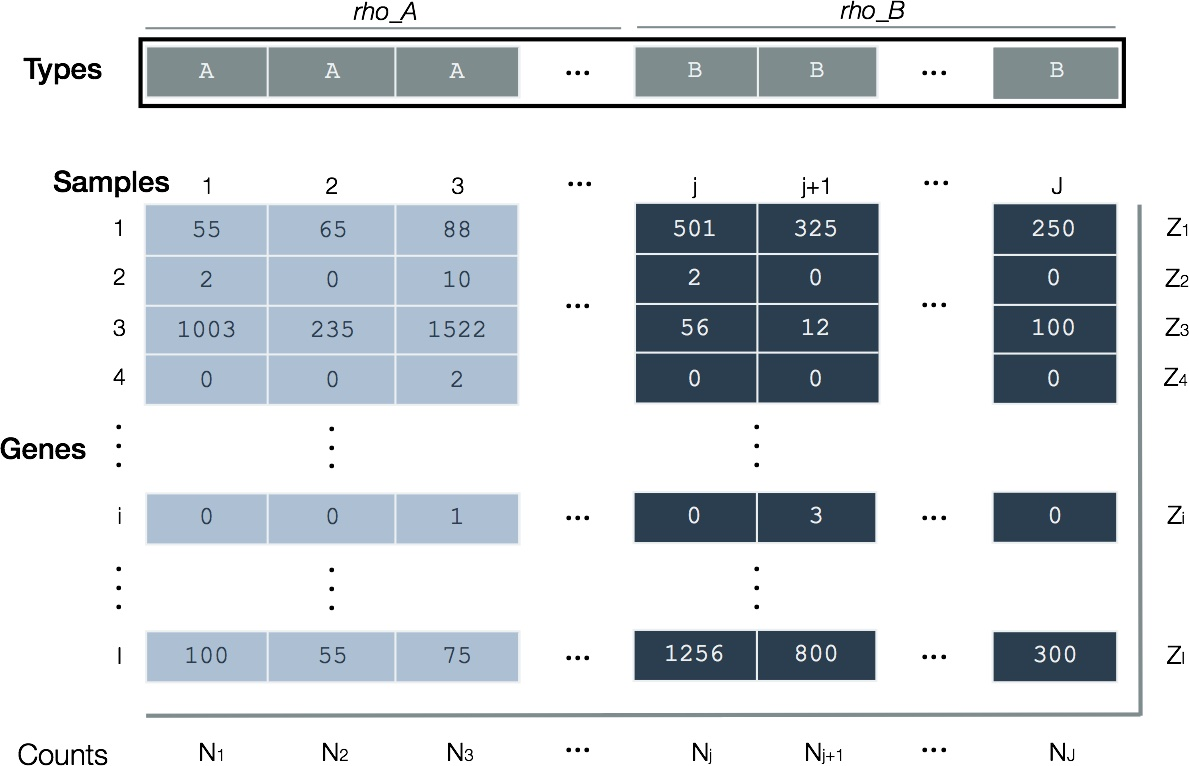
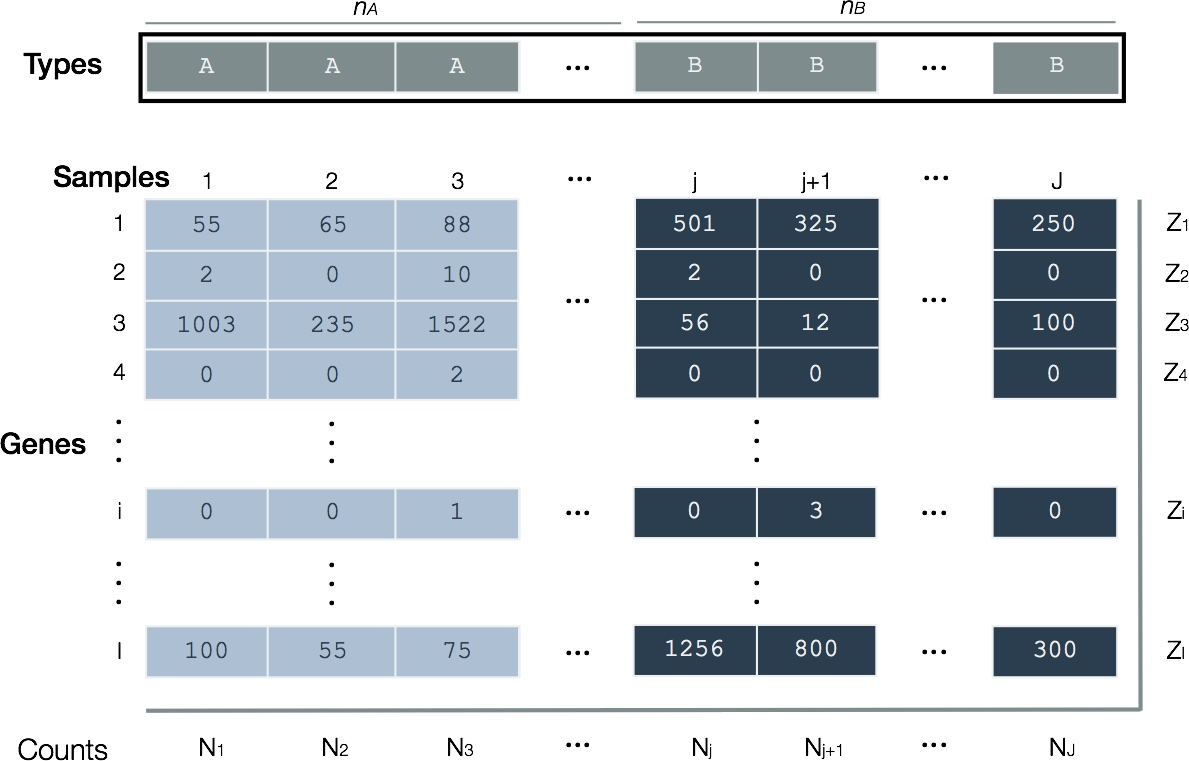
CML for common dispersions

diff --git a/_primers/functional_analysis/rna_sequencing_analysis.md b/_primers/functional_analysis/rna_sequencing_analysis.md
@@ -31,7 +31,8 @@ figures:
   - {:.list-unstyled} [IV. Normalization](#normalization)
   - {:.list-unstyled} [V. Differential expression testing](#differentialExpression)
   - {:.list-unstyled} [VI. Modelling counts ](#modellingCounts)
-  - {:.list-unstyled} [VII. References](#references)
+  - {:.list-unstyled} [VII. Dispersion estimation ](#dispersionEstimation)
+  - {:.list-unstyled} [VIII. References](#references)
 
 <hr/>
 
@@ -133,7 +134,7 @@ The overall goal for RNA-seq normalization is to provide a basis upon which an f
 
 ![image]({{ site.baseurl }}/{{ site.media_root }}{{ page.id }}/{{ page.figures.figure_3 }}){: .img-responsive }
 <div class="figure-legend well well-lg text-justify">
-  <strong>Figure 3. Layout of RNA-seq read counts for differential expression.</strong> Hypothetical counts of RNA species for two biological types (A and B) whose gene expression are being contrasted. Samples (J total) are arranged in columns and genes (I total) in rows. There are rho_A samples of Type A and rho_B of Type B. A cDNA library for each sample is created and sequenced. The total number of mapped sequence reads from each sample (N) are usually non-identical; Total mapped sequence reads for each gene is also indicated along right margin (Z).
+  <strong>Figure 3. Layout of RNA-seq read counts for differential expression.</strong> Hypothetical counts of RNA species for two biological types (A and B) whose gene expression are being contrasted. Samples (J total) are arranged in columns and genes (I total) in rows. There are n_A samples of Type A and n_B of Type B. A cDNA library for each sample is created and sequenced. The total number of mapped sequence reads from each sample (N) are usually non-identical; Total mapped sequence reads for each gene is also indicated along right margin (Z).
 </div>
 
 ### Notation
@@ -144,7 +145,7 @@ To make our discussion more precise we will use mathematical notation in the fol
   - {:.list-unstyled} $$Z_{i}$$ = $$\sum\limits_{j \in J}Y_{ij}$$ total mapped sequence reads for a gene
   - {:.list-unstyled} $$Z_{iT}$$ = $$\sum\limits_{j \in T}Y_{ij}$$ total mapped sequence reads for a gene over all sample indices corresponding to a  given type $$T=\{j: j \subseteq 1 \leq k \leq J \}$$
   - {:.list-unstyled} $$\lambda_{ij}$$ relative abundance of mapped sequence reads attributed to a given locus in a sample. Proportion of total mass
-  - {:.list-unstyled} $$\rho_{T} = \|T\|$$ (rho_T) number of samples of given type $$T$$
+  - {:.list-unstyled} $$n_{T} = \|T\|$$ number of samples of type $$T$$
   - {:.list-unstyled} $$\omega_{ij}$$ gene expression level in number of transcripts
   - {:.list-unstyled} $$L_{i}$$ length of an RNA species in bases
   - {:.list-unstyled} $$S_{j}$$ total RNA output in a sample. Total mass in bases
@@ -416,7 +417,7 @@ Our framework for gathering evidence will be a hypothesis test and the evidence 
 
 ### Terminology
 
-Suppose that we wish to test whether the relative abundance ($$\lambda_{ij}$$) of a gene in the set of cases with a HGS-OvCa subtype label 'mesenchymal' is different relative to 'immunoreactive'. Let the set of sample indices $$j$$ belonging to the mesenchymal cases be $$M$$ of which there are $$\rho_M=\|M\|$$ cases. Likewise, the set of $$\rho_R=\|R\|$$ immunoreactive cases is $$R$$.
+Suppose that we wish to test whether the relative abundance ($$\lambda_{ij}$$) of a gene in the set of cases with a HGS-OvCa subtype label 'mesenchymal' is different relative to 'immunoreactive'. Let the set of sample indices $$j$$ belonging to the mesenchymal cases be $$M$$ of which there are $$n_M=\|M\|$$ cases. Likewise, the set of $$n_R=\|R\|$$ immunoreactive cases is $$R$$.
 
 In classic hypothesis testing language, we take the *a priori* position of the null hypothesis ($$H_0$$) that the relative abundance is the same in each subtype.
 
@@ -502,18 +503,18 @@ Given RNA-seq data samples having the the same total mapped sequence reads ($$N$
 $$
 \begin{equation}
   \begin{split}
-    Z_{iT} &\sim NB \left(\rho_{T} N \lambda_{i}, \phi \rho_{T}^{-1} \right)\\
+    Z_{iT} &\sim NB \left(n_{T} N \lambda_{i}, \phi n_{T}^{-1} \right)\\
   \end{split}
 \end{equation}
 $$
 
-Here the $$\phi$$ is the dispersion, $$\rho_T$$ is the number of samples of type $$T$$ and $$\lambda_i$$ is the relative abundance of the gene. But let's back up a bit. We seemed to pull this negative binomial distribution out of a magic hat. Where does this originate? What do all these parameters really mean and how do we get them?
+Here the $$\phi$$ is the dispersion, $$n_T$$ is the number of samples of type $$T$$ and $$\lambda_i$$ is the relative abundance of the gene. But let's back up a bit. We seemed to pull this negative binomial distribution out of a magic hat. Where does this originate? What do all these parameters really mean and how do we get them?
 
 ## <a href="#modellingCounts" name="modellingCounts">VI. Modelling counts</a>
 
 Our goal here is to rationalize the negative binomial distribution as an acceptable null [probability distribution]({{ site.baseurl }}/primers/statistics/definitions/#probabilityFunction) which we can use to map an observed RNA-seq sequenced read count to a corresponding p-value $$P$$. In simple terms, trying to derive the null distribution corresponds to the question: How are RNA-seq mapped sequence reads distributed? Another way of stating this is: How do RNA-seq mapped sequence read data vary?
 
-## Technical variability
+### Technical variability
 
 Consider the RNA-seq experiment we presented in Figure 1: RNA is sourced from a particular case, a corresponding cDNA library is generated and short sequence reads are mapped to a reference. Thus, for any give gene we will derive a number of fragment counts. Imagine that we could use the identical cDNA library in multiple, distinct, parallel sequencing reactions such as that provided by a typical flow cell apparatus (Figure 2). Our intuition would lead us to expect that the sequencing reads to be similar but unlikely to produce exactly the same counts for every gene in every reaction.
 
@@ -548,8 +549,6 @@ Accordingly, the mean and variance of mapped read counts is a random variable $$
  </div>
 
 ### Biological variability
-
-> Available in edgeR:`estimateCommonDisp(...)` and `estimateTagwiseDisp(...)`
 
 Consider the RNA-seq experiments we presented in Figure 3: RNA is sourced from two distinct subtypes and for each subtype, multiple cases. Again, for each case a corresponding cDNA library is generated and short sequence reads are mapped to a reference. Suppose we restrict our attention to cases of a given subtype. Our experience would lead us to expect that the sequencing reads would be similar but unlikely to produce exactly the same counts even after controlling for technical variability.
 
@@ -601,9 +600,9 @@ Where we have now broken down the total squared coefficient of variation ($$CV_{
 > *When a negative binomial model is fitted, we need to estimate the BCV(s) before we carry out the analysis. The BCV ... is the square root of the dispersion parameter under the negative binomial model. Hence, it is equivalent to estimating the dispersion(s) of the negative binomial model.*
 > <footer class="text-right"><a href="https://www.bioconductor.org/packages/devel/bioc/vignettes/edgeR/inst/doc/edgeRUsersGuide.pdf">edgeR User Guide</a></footer>
 
-### Distribution theory
+## <a href="#dispersionEstimation" name="dispersionEstimation">VII. Dispersion estimation</a>
 
-Recall in the previous section [Differential expression testing](#differentialExpression) we defined our test statistics - the number of observed counts $$Y_{ij}$$ for the gene of interest in each subtype.
+Let us preview what we will discuss in this section. Recall in the previous section [differential expression testing](#differentialExpression) we defined our test statistics - the number of observed counts $$Y_{ij}$$ for the gene of interest in each subtype.
 
 $$
 \begin{equation}
@@ -619,17 +618,176 @@ It turns out that the sum of independent and identically distributed negative bi
 $$
 \begin{equation*}
   \begin{split}
-    Z_{iM} &\sim NB \left(\rho_{M} N \lambda_{iM}, \phi \rho_{M}^{-1} \right)\\
-    Z_{iR} &\sim NB \left(\rho_{R} N \lambda_{iR}, \phi \rho_{R}^{-1} \right)\\
+    Z_{iM} &\sim NB \left(n_{M} N \lambda_{iM}, \phi n_{M}^{-1} \right)\\
+    Z_{iR} &\sim NB \left(n_{R} N \lambda_{iR}, \phi n_{R}^{-1} \right)\\
   \end{split}
 \end{equation*}
 $$
 
-Where $$\rho_T$$ is the number of samples of a given subtype. Let us return again to a key assumption that there is a common value for total mapped sequence reads ($$N$$). This assumption is required as without it, the data is not identically distributed and consequently the distributions of within-condition data totals $$Z_{iT}$$ are not known. Recall again this assumption is unlikely to occur in practice and motivates the adjustments described by Robinson and Smyth (Robinson 2007, Robinson 2008).
+Where $$n_T$$ is the number of samples of a given subtype. Let us return again to a key assumption that there is a common value for total mapped sequence reads ($$N$$). This assumption is required as without it, the data is not identically distributed and consequently the distributions of within-condition data totals $$Z_{iT}$$ are not known. Recall again this assumption is unlikely to occur in practice and motivates the adjustments described by Robinson and Smyth (Robinson 2007, Robinson 2008).
+
+### Estimating common dispersion
+
+> Available in edgeR: `estimateCommonDisp(...)`
+
+This is a method suggested by Robinson and Smith (Robinson 2008) who were concerned with a forerunner of RNA sequencing called Serial Analysis of Gene Expression (SAGE). The motivation  behind this method is that often times, few biological replicates are available (e.g. less than three). Instead, we leverage the availability of observations across all genes towards the estimation of a common dispersion shared by all genes.
+
+Suppose once again that $$Y_{ij}$$ represents the observed number of mapped sequence reads for a gene and sample and $$Y_{ij} \sim NB(\mu_{ij},\phi)$$. Let us restrict ourselves to the set of $$n_T$$ biological replicates where each sample is from the same condition $$T$$. In the case that the total mapped sequence reads are equal $$N_j=N$$ then their sum
+
+$$
+\begin{equation*}
+  \begin{split}
+    Z_{iT}({\bf Y}) &= Y_{i1}+ \cdots + Y_{in_T} \sim NB(n_T N \lambda_{iT} = n_T \mu_{iT}, n_T^{-1}\phi)\\
+  \end{split}
+\end{equation*}
+$$
+
+Let us drop the subscripts and assume that we are examining a single gene for samples of a given type. Now it is simple to show that the sample sum $$Z$$ is a sufficient statistic for $$\lambda$$. In this case, we can effectively rid ourselves of $$\lambda$$ in an estimate of $$\phi$$ by forming a likelihood expression $$L$$ for $$Y$$ conditioned on the sum $$Z=z$$.
+
+$$
+\begin{equation*}
+  \begin{split}
+    L_{Y \mid Z=z}(\phi) = f_{Y \mid Z=z}({\bf y} \mid z; \phi)\\
+  \end{split}
+\end{equation*}
+$$
+
+In practice we will attempt to maximize the log-likelihood instead.
+
+$$
+\begin{equation*}
+  \begin{split}
+    \ell_{Y \mid Z=z}(\phi) = log(f_{Y \mid Z=z}({\bf y} \mid z; \phi))\\
+  \end{split}
+\end{equation*}
+$$
+
+Using the definition of conditional probability we can write.
+
+$$
+\begin{equation*}
+  \begin{split}
+    f_{Y \mid Z=z}({\bf y} \mid z; \phi)
+      &= \frac{f_{Y, Z}({\bf y}, z; \phi)}{f_{Z}(z;\phi)}\\
+      &= \frac{f_{Y}({\bf y};\phi)}{f_{Z}(z;\phi)} \qquad \text{since }Z = Z({\bf y})\\
+  \end{split}
+\end{equation*}
+$$
+
+This is the probability distribution of the counts conditioned on the sum and we will proceed by finding the numerator and denominator separately. To do this, we'll start with some notation that is simplified by restricting our discussion to a single gene and sample type.
+
+$$
+  \begin{equation*}
+      \mu = \frac{1}{n} \sum\limits_{j}y_{j}
+  \end{equation*}
+$$
+
+$$
+  \begin{equation*}
+      z = n\mu
+  \end{equation*}
+$$
+
+The denominator of the conditional probability distribution is found by recalling that the sum has a negative binomial distribution $$Z \sim NB(n\mu, n^{-1}\phi)$$.
+
+$$
+\begin{equation*}
+  \begin{split}
+    f_{Z}(z; \phi)
+      &= \frac{\Gamma(z + n\phi^{-1})}{\Gamma(n\phi^{-1}) \Gamma(z + 1)}
+        \left(\frac{n\mu}{n\phi^{-1}+n\mu}\right)^z \left(\frac{n\phi^{-1}}{n\phi^{-1}+n\mu}\right)^{n\phi^{-1}} \\
+
+    log(f_{Z}(z; \phi))
+      &= log\Gamma(z + n\phi^{-1}) - log\Gamma(n\phi^{-1}) - log\Gamma(z + 1)
+        + zlog\left(\frac{z}{n\phi^{-1}+z}\right) + n\phi^{-1} log\left(\frac{n\phi^{-1}}{n\phi^{-1}+z}\right) \\    
+  \end{split}
+\end{equation*}
+$$
+
+The numerator of the condition probability is found as usual.
+
+$$
+\begin{equation*}
+  \begin{split}
+    f_{Y}({\bf y};\phi) &= \prod\limits_{j}
+      \frac{\Gamma(y_j + \phi^{-1})}{\Gamma(\phi^{-1}) \Gamma(y_j + 1)}
+      \left(\frac{\mu}{\phi^{-1}+\mu}\right)^{y_j}
+      \left(\frac{\phi^{-1}}{\phi^{-1}+\mu}\right)^{\phi^{-1}} \\
+
+      &= \sum\limits_{j}log\Gamma(y_j + \phi^{-1})
+        - log\Gamma(\phi^{-1})^n - \sum\limits_{j} log\Gamma(y_j + 1)
+        + log\left(\frac{\mu}{\phi^{-1}+\mu}\right)^{\sum\limits_{j} y_j}
+        + log\left(\frac{\phi^{-1}}{\phi^{-1}+\mu}\right)^{\sum\limits_{j} \phi^{-1}} \\
+
+      &= \sum\limits_{j}log\Gamma(y_j + \phi^{-1})
+        - nlog\Gamma(\phi^{-1}) - \sum\limits_{j} log\Gamma(y_j + 1)
+        + zlog\left(\frac{\mu}{\phi^{-1}+\mu}\right)
+        + n\phi^{-1}log\left(\frac{\phi^{-1}}{\phi^{-1}+\mu}\right) \\
+
+      &= \sum\limits_{j}log\Gamma(y_j + \phi^{-1})
+        - nlog\Gamma(\phi^{-1}) - \sum\limits_{j} log\Gamma(y_j + 1)
+        + zlog\left(\frac{z}{n\phi^{-1}+z}\right)
+        + n\phi^{-1}log\left(\frac{n\phi^{-1}}{n\phi^{-1}+z}\right) \\
+  \end{split}
+\end{equation*}
+$$
+
+Where the final equality results from us multiplying the numerator and denominator of the fractions by $$n$$. Then we can take the difference of the two previous results to derive the log-likelihood we are looking for.
+
+$$
+\begin{equation*}
+  \begin{split}
+  \ell_{Y \mid Z=z}(\phi) &= logf_{Y}({\bf y};\phi) - logf_{Z}(z;\phi)\\
+
+  &= \sum\limits_{j}log\Gamma(y_j + \phi^{-1})
+    - nlog\Gamma(\phi^{-1}) - \sum\limits_{j} log\Gamma(y_j + 1)
+    + zlog\left(\frac{z}{n\phi^{-1}+z}\right)
+    + n\phi^{-1}log\left(\frac{n\phi^{-1}}{n\phi^{-1}+z}\right) \\
+
+  &- log\Gamma(z + n\phi^{-1}) + log\Gamma(n\phi^{-1}) + log\Gamma(z + 1)
+    - zlog\left(\frac{z}{n\phi^{-1}+z}\right)
+    - n\phi^{-1} log\left(\frac{n\phi^{-1}}{n\phi^{-1}+z}\right) \\    
+  \end{split}
+\end{equation*}
+$$
+
+Crossing out terms leaves us with the result.
+
+$$
+\begin{equation*}
+  \begin{split}
+    \ell_{Y \mid Z=z}(\phi)
+
+    &= \sum\limits_{j}log\Gamma(y_j + \phi^{-1})
+      - nlog\Gamma(\phi^{-1}) - \sum\limits_{j} log\Gamma(y_j + 1)\\    
+    &- log\Gamma(z + n\phi^{-1}) + log\Gamma(n\phi^{-1}) + log\Gamma(z + 1)\\      
+  \end{split}
+\end{equation*}
+$$
+
+If we ignore terms that do not contain the parameter of interest $$\phi$$ then we are left with an equation quoted by Robinson and Smyth (Equation 4.1 in Robinson 2008) that we wish to  maximize.
+
+$$
+\begin{equation*}
+  \begin{split}
+    \ell_{Y \mid Z=z}^{\prime}(\phi)
+
+    &= \sum\limits_{j}log\Gamma(y_j + \phi^{-1})
+      - nlog\Gamma(\phi^{-1}) - log\Gamma(z + n\phi^{-1}) + log\Gamma(n\phi^{-1})\\      
+  \end{split}
+\end{equation*}
+$$
+
+
+### Estimating per-gene ('tag-wise') dispersions
+
+> Available in edgeR: `estimateTagwiseDisp(...)`
 
 <hr/>
 
 A through discussion of dispersion estimation is beyond the scope of this guide. We refer the reader to the original publication by Robinson and Smyth (Robinson 2007) for a detailed discussion of the rationale and approach to model fitting. In the end, an estimate of negative binomial parameters enables us to calculate the exact probabilities of RNA-seq mapped read counts and derive a $$P$$ value for each gene, as discussed in the previous section. Dispersion plays an important role in hypothesis tests for DEGs. Underestimates of $$\phi$$ lead to lower estimates of variance relative to the mean, which may generate false evidence that a gene is differentially expressed and *vice versa*.
 
-## <a href="#references" name="references">IX. References</a>
+
+
+## <a href="#references" name="references">VIII. References</a>
 <!-- <div class="panel_group" data-inline="20167110,26813401,17556586,25150837,18550803,18516045,21176179,17881408,17728317,20196867,19015660"></div> -->

diff --git a/_tools/gsea.md b/_tools/gsea.md
@@ -10,7 +10,7 @@ category: Software
 draft: false
 figures:
   figure_overview: figure_overview.png
-  figure_1: figure_overview.png
+  figure_1: figure_gsea_steps.png
 ---
 
 - {:.list-unstyled} Table of Contents
@@ -35,38 +35,51 @@ In this section we will be using [Gene Set Enrichment Analysis (GSEA)](http://so
 
 ![image]({{ site.baseurl }}/{{ site.media_root }}{{ page.id }}/{{ page.figures.figure_overview }}){: .img-responsive.slim }
 <div class="figure-legend well well-lg text-justify">
-  <strong>Summary and Goals.</strong> This section provides background on.
+  <strong>Summary and Goals.</strong> This section provides background on GSEA. This approach takes as input a list of genes derived from experimental observations. The genes are ranked according to some measure, for example, the extent of differential expression between groups. ordered Candidate gene sets or pathways are examined one at a time to see how many genes from the gene list are present.
 </div>
 
 ## <a href="#background" name="background">II. Background</a>
 
 Gene Set Enrichment Analysis is a tool that belongs to a class of second-generation pathway analysis approaches that are referred to by many names including *functional class scoring (FCS)* (Khatri 2012), *significance analysis of function and expression (SAFE)* (Barry 2005) and confusingly *gene set enrichment* (Ackerman 2009). Herein, we will refer to this specific category of tools by FCS.
 
-FCS methods like GSEA share the same basic requirements as most other pathway analysis approaches.
+### Origins
+GSEA was originally presented by Mootha *et al.* (Mootha 2003) in an attempt to shed light on the mechanistic basis of Type 2 diabetes mellitus. Their approach is predicated on the notion that alterations in gene expression associated with a disease can manifest at the level of biological pathways or co-regulated gene sets, rather than individual genes. The lack of power to detect true signals at the gene level may be a consequence of high-throughput expression measurements which involving heterogeneous samples, modest sample sizes and subtle but nevertheless meaningful alterations expression levels. Ultimately these confound attempts to derive reliable and reproducible associations with a biological state of interest.
 
-1. Quantitive measurements relevant to a biological phenomena
-2. Knowledge base(s) of pathways
-3. A methodology for mapping measurements onto pathways
+A naive approach to interpreting large-scale expression results is to rely on the faculties of the researcher to reason about genes the top ranking genes with respect to differential expression - the biggest signal. A set of alternatives collectively termed Overrepresentation Analysis (ORA), describe algorithms that apply statistical tests to determine if top-ranking genes contain members of previously described pathways beyond what would be reasonably expected to occur by chance.
 
-For the purposes of this discussion, our quantitative measurements are represented by a list of genes expressed differently in subtypes. Our section ['Get Data']({{site.baseurl}}/datasets/TCGA_Ovarian_Cancer/get-data/) described in detail how to source and extract the HGS-OvCa RNA sequencing (RNA-seq) data generated by TCGA. A follow-up section titled ['Process Data']({{site.baseurl}}/datasets/TCGA_Ovarian_Cancer/process-data/) details how to derive a list of genes ranked by p-value for differential expression.
+In a follow up article, Subramanian *et al.* elaborated on the analytical method called Gene Set Enrichment Analysis (GSEA) to derive pathways enriched in expression profiles originating in pairwise comparisons. We begin with a general description of the approach followed by an explanation of how it fits into a classic hypothesis testing approach. What was the diff here?
 
-Likewise, the methodology used by GSEA to map genes onto pathways is common amongst FCS approaches (Barry 2005).
+The method used by GSEA to map genes onto pathways is generic to those collectively known as Functional Class Scoring (FCS) approaches (Barry 2005).
 
-1. Calculate a local score describing individual gene behaviour (e.g. p-value)
-2. Calculate an aggregate score for the enrichment of genes in each pathway
-3. Determine the significance of the global score
-4. Correct for multiple hypothesis testing
+1. Calculate a gene-level score
+2. Calculate a pathway-level score
+3. Determine significance of the pathway-level score
+4. Adjust for [multiple testing]({{site.baseurl}}/primers/functional_analysis/multiple_testing/)
+
+### Gene and pathway scoring
+
+Figure 1 shows the approach described by GSEA to calculate the gene-level and pathway-level scores for a pairwise comparison of gene expression levels between two groups of individuals. Examples of a pairwise comparison could be disease subtypes or disease versus normal.
 
 ![image]({{ site.baseurl }}/{{ site.media_root }}{{ page.id }}/{{ page.figures.figure_1 }}){: .img-responsive.slim }
 <div class="figure-legend well well-lg text-justify">
-  <strong>Figure 1. Overview of GSEA.</strong> This should be generic to FCS.
+  <strong>Figure 1. Calculating a GSEA enrichment score.</strong> A pairwise comparison of gene expression  between two groups of individuals. 1. RNA samples are collected from each subject (n total) and RNA levels for each sample are interrogated by microarray or deep-sequencing. 2. A 'local' or 'gene-level' statistic is calculated for each gene corresponding to a measure of differential expression and the genes are ranked accordingly. 3. The ranked list is scanned for members of a candidate gene set, in this case cell cycle entry (members indicated in red). 4. A 'global' or 'pathway-level' statistic is calculated: For each successive gene in the ranked list, add to a running sum if the gene is a member of the gene set and subtract otherwise. This running sum is called the 'Enrichment Score' (ES) and we track its maximum (MES) over the ranked list.
 </div>
 
-Below we describe the knowledge base along with the methodology underlying GSEA in greater detail. To motivate the discussion, conclude with a concrete example: Mapping our list of genes differentially expressed in subtypes of TCGA HGS-OvCa into a corresponding list of candidate pathways.
+The running sum calculated by adding and subtracting based on gene set membership in a ranked list is a Komolgorov-Smirnov (K-S) statistic.
+
+### Significance testing
+
+Typically the approach in
+
+The approach can be framed in hypothesis testing language: GSEA gathers evidence to support or cast doubt upon a null hypothesis of **random rank ordering of genes** in a given comparison with respect to sample categorization.
+
+> *GSEA gathers evidence to support or cast doubt upon a null hypothesis of random rank ordering of genes in a given comparison with respect to sample categorization.*
+
+Let's break that null hypothesis down.
 
 ## <a href="#gsea" name="gsea">III. Gene Set Enrichment Analysis</a>
 
 Gene Set Enrichment Analysis.
 
-## <a href="#references" name="references">III. References</a>
-<!-- <div class="panel_group" data-inline="19192285,15647293,26125594,22383865"></div> -->
+## <a href="#references" name="references">IV . References</a>
+<!-- <div class="panel_group" data-inline="26125594,19192285,15647293,22383865,12808457,16199517"></div> -->

diff --git a/_tools/pathway_analysis.md b/_tools/pathway_analysis.md
@@ -36,8 +36,15 @@ The underlying assumption is that subsuming the low-level biological components 
 
 All forms of pathway analysis have the same basic requirements.
 
-1. Obtain quantitive measurements relevant to a biological phenomena or phenotype.
-2.
+### Approach
+
+FCS methods like GSEA share the same basic requirements as most other pathway analysis approaches.
+
+1. Quantitive measurements relevant to a biological phenomena
+2. Knowledge base(s) of pathways
+3. A methodology for mapping measurements onto pathways
+
+For the purposes of this discussion, our quantitative measurements are represented by a list of genes expressed differently in subtypes.
 
 There are two broad classes of pathway analysis tools.The first category, termed 'Overrepresentation Analyses' (ORA) . The second group of pathway analysis was motivated by some of the shortcomings of ORA.
 
